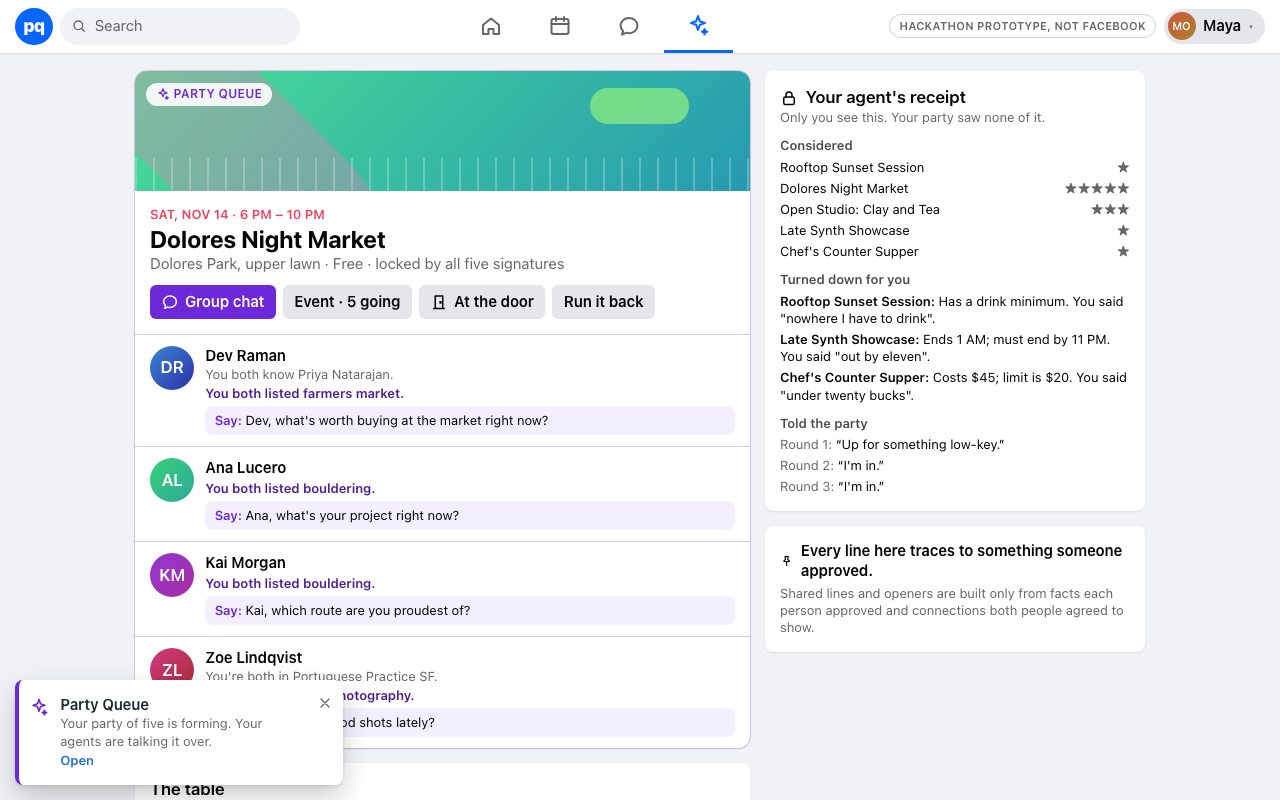
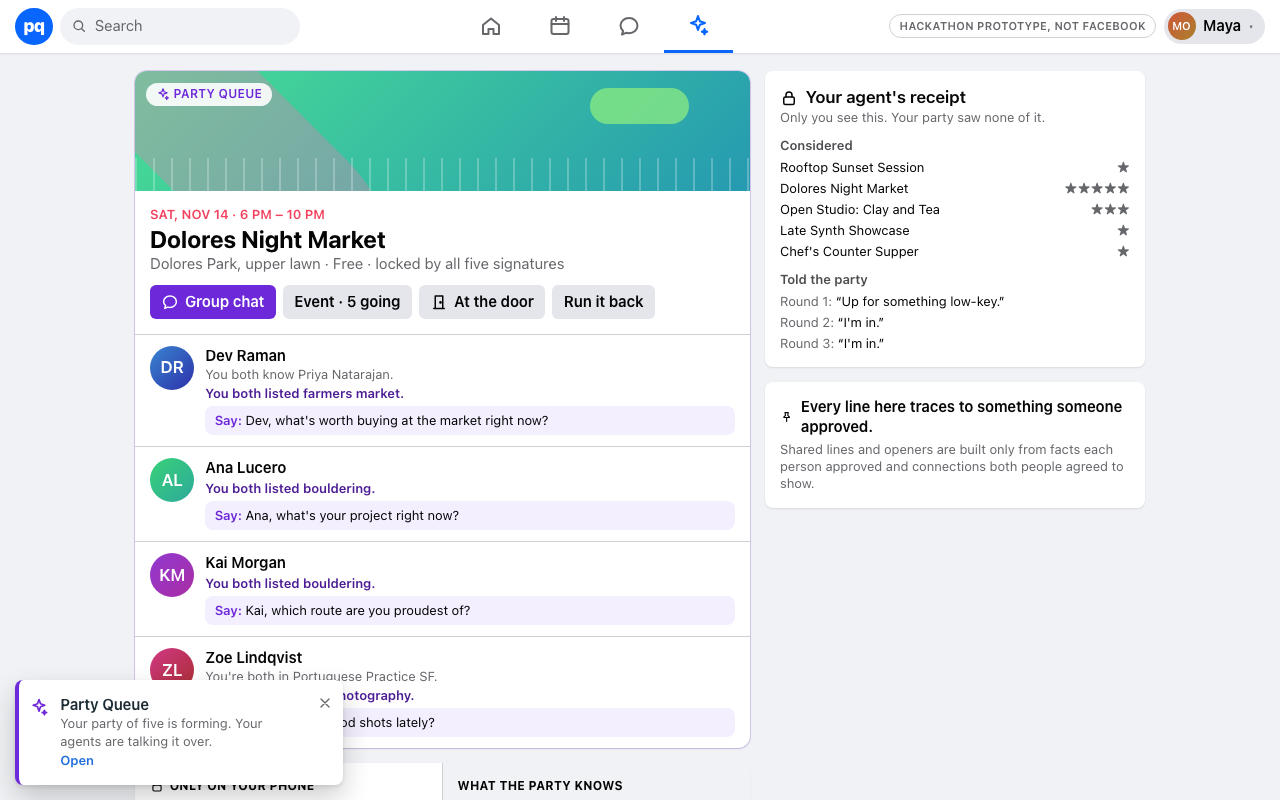
F2: Maya's secret
On your own /party: your rules in your own words and what your agent turned
down, beside a 'What the party knows' column computed by scanning everything
the other four can load (party view, live events, group chat). It reads
'Nothing' with the number of items checked, plus the anonymous unavailable
marks they saw; a planted leak turns it red. Behind SECRET_PANEL (default on).

diff --git a/components/party/SecretPanel.tsx b/components/party/SecretPanel.tsx
@@ -1,0 +1,85 @@
+import { IconCheck, IconLock } from "@/components/icons";
+import type { SecretView } from "@/lib/server/secret";
+
+/** Your private rules and receipt, next to what the party actually knows.
+ *  The right column is computed by a leak scan, so "nothing" is a result. */
+export function SecretPanel({ v }: { v: SecretView }) {
+  const leaked = v.partyKnows.length > 0;
+  return (
+    <section className="overflow-hidden rounded-[12px] bg-white shadow-[var(--shadow-card)]" data-testid="secret-panel">
+      <div className="grid grid-cols-2 divide-x divide-[var(--color-divider)]">
+        {/* Left: only on this phone */}
+        <div className="min-w-0 p-3 sm:p-4" data-testid="secret-mine">
+          <div className="flex items-center gap-1.5 text-[12px] font-bold uppercase tracking-wide text-[var(--color-ink)]">
+            <IconLock size={14} /> Only on your phone
+          </div>
+          <div className="mt-2 text-[12px] font-semibold text-[var(--color-ink-3)]">Your rules</div>
+          {v.rules.length === 0 ? (
+            <div className="text-[13px] text-[var(--color-ink-2)]">You didn't set any.</div>
+          ) : (
+            <ul className="mt-1 space-y-1.5">
+              {v.rules.map((r) => (
+                <li key={r.id} data-testid="secret-rule">
+                  <span className="inline-block rounded-full bg-[var(--color-ink)] px-2 py-0.5 text-[12px] font-semibold text-white">{r.label}</span>
+                  <div className="mt-0.5 text-[12px] italic text-[var(--color-ink-2)]">“{r.yourWords}”</div>
+                </li>
+              ))}
+            </ul>
+          )}
+          {v.turnedDown.length > 0 && (
+            <>
+              <div className="mt-3 text-[12px] font-semibold text-[var(--color-ink-3)]">Your agent turned down</div>
+              <ul className="mt-1 space-y-1">
+                {v.turnedDown.map((t) => (
+                  <li key={t.planId} className="text-[12px] leading-snug">
+                    <span className="font-semibold">{t.title}</span>
+                    <span className="text-[var(--color-ink-2)]"> · {t.reason}</span>
+                  </li>
+                ))}
+              </ul>
+            </>
+          )}
+        </div>
+
+        {/* Right: what the other four can see, from a scan */}
+        <div className={`min-w-0 p-3 sm:p-4 ${leaked ? "bg-[#fdecef]" : "bg-[var(--color-wash)]"}`} data-testid="secret-party-knows" data-leaks={v.partyKnows.length}>
+          <div className="text-[12px] font-bold uppercase tracking-wide text-[var(--color-ink)]">What the party knows</div>
+          {leaked ? (
+            <ul className="mt-2 space-y-1">
+              {v.partyKnows.map((k, i) => (
+                <li key={i} className="text-[12px] font-semibold text-[var(--color-badge)]">
+                  {k.memberName} can see “{k.text}”
+                </li>
+              ))}
+            </ul>
+          ) : (
+            <div className="mt-2" data-testid="secret-empty">
+              <div className="flex min-h-[56px] items-center justify-center rounded-[8px] border-2 border-dashed border-[var(--color-divider)] text-[13px] font-semibold text-[var(--color-ink-2)]">
+                Nothing
+              </div>
+              <div className="mt-2 flex items-start gap-1 text-[11px] leading-snug text-[var(--color-ink-2)]">
+                <IconCheck size={14} className="mt-px shrink-0 text-[var(--color-positive)]" />
+                <span>
+                  Checked just now: {v.checkedItems} items across all {v.checkedMembers} other phones. None mention your rules or reasons.
+                </span>
+              </div>
+            </div>
+          )}
+          {v.partySaw.length > 0 && (
+            <>
+              <div className="mt-3 text-[12px] font-semibold text-[var(--color-ink-3)]">They saw only</div>
+              <ul className="mt-1 space-y-0.5">
+                {v.partySaw.map((t) => (
+                  <li key={t} className="text-[12px] text-[var(--color-ink-2)]">
+                    {t}
+                  </li>
+                ))}
+              </ul>
+              <div className="mt-1 text-[11px] text-[var(--color-ink-2)]">No name, no reason.</div>
+            </>
+          )}
+        </div>
+      </div>
+    </section>
+  );
+}

diff --git a/lib/server/secret.ts b/lib/server/secret.ts
@@ -1,0 +1,98 @@
+import type { HardRule } from "@/contracts";
+import { visibleTo } from "./bus";
+import { chatView } from "./social";
+import { profile, store } from "./store";
+import { memberPartyView } from "./views";
+
+/**
+ * "Maya's secret": what only the owner can see, next to what the rest of
+ * the party actually knows about it. The second column is not a claim; it
+ * is computed by scanning everything each other member can load (their
+ * party view, every live event they receive, the group chat) for the
+ * owner's rule words, sentence and private reasons.
+ */
+
+export interface SecretRule {
+  id: string;
+  label: string;
+  yourWords: string;
+}
+
+export interface SecretView {
+  ownerId: string;
+  rules: SecretRule[];
+  turnedDown: { planId: string; title: string; reason: string }[];
+  /** Anything private of the owner's found in another member's data. Expected empty. */
+  partyKnows: { memberId: string; memberName: string; text: string }[];
+  /** What the others saw instead: plan marks with no reason and no name. */
+  partySaw: string[];
+  checkedMembers: number;
+  checkedItems: number;
+}
+
+export function ruleLabel(r: HardRule): string {
+  switch (r.kind) {
+    case "end_by": {
+      const [h, m] = r.value.split(":").map(Number) as [number, number];
+      const hh = h % 12 === 0 ? 12 : h % 12;
+      return `Done by ${hh}${m ? `:${String(m).padStart(2, "0")}` : ""} ${h >= 12 && h < 24 ? "PM" : "AM"}`;
+    }
+    case "max_price":
+      return `$${r.value} or less`;
+    case "no_drink_minimum":
+      return "No drink minimum";
+    case "public_venue":
+      return "Public place only";
+  }
+}
+
+/** Everything one member could ever load or receive about this party. */
+export function everythingVisibleTo(partyId: string, viewerId: string): { text: string; items: number } {
+  const s = store();
+  const view = memberPartyView(partyId, viewerId);
+  const events = s.events_log.filter((e) => visibleTo(e, { userId: viewerId }));
+  const chatId = s.parties.get(partyId)?.chatId;
+  const chat = chatId ? chatView(chatId, viewerId) : null;
+  return { text: JSON.stringify({ view, events, chat }), items: events.length + (chat?.messages.length ?? 0) + (view?.table.length ?? 0) };
+}
+
+export function secretView(partyId: string, ownerId: string): SecretView | null {
+  const s = store();
+  const party = s.parties.get(partyId);
+  const brief = s.briefs.get(`brief-${ownerId}`);
+  if (!party || !brief || !party.memberIds.includes(ownerId)) return null;
+
+  const mine = s.verdicts.filter((v) => v.partyId === partyId && v.ownerId === ownerId);
+  const secrets = [brief.sentence, ...brief.hardRules.map((r) => r.sourceText), ...mine.filter((v) => v.decision === "reject").map((v) => v.privateReason)].filter(
+    (x) => x && x.trim().length >= 6,
+  );
+
+  const partyKnows: SecretView["partyKnows"] = [];
+  let checkedItems = 0;
+  const others = party.memberIds.filter((id) => id !== ownerId);
+  for (const other of others) {
+    // A generic reason can be word-for-word the other person's own; that is not a leak.
+    const theirOwn = new Set([
+      ...(s.briefs.get(`brief-${other}`)?.hardRules.map((r) => r.sourceText) ?? []),
+      ...s.verdicts.filter((v) => v.partyId === partyId && v.ownerId === other).map((v) => v.privateReason),
+    ]);
+    const seen = everythingVisibleTo(partyId, other);
+    checkedItems += seen.items;
+    for (const secret of secrets) {
+      if (theirOwn.has(secret)) continue;
+      if (seen.text.includes(JSON.stringify(secret).slice(1, -1))) partyKnows.push({ memberId: other, memberName: profile(other).firstName, text: secret });
+    }
+  }
+
+  return {
+    ownerId,
+    rules: brief.hardRules.map((r) => ({ id: r.id, label: ruleLabel(r), yourWords: r.sourceText })),
+    turnedDown: mine
+      .filter((v) => v.round === 1 && v.decision === "reject")
+      .map((v) => ({ planId: v.planId, title: s.plans.get(v.planId)?.title ?? v.planId, reason: v.privateReason })),
+    partyKnows,
+    partySaw: s.table.filter((t) => t.partyId === partyId && t.kind === "unavailable").map((t) => t.text),
+    checkedMembers: others.length,
+    checkedItems,
+  };
+}

diff --git a/tests/unit/secret.test.ts b/tests/unit/secret.test.ts
@@ -1,0 +1,60 @@
+import { beforeEach, describe, expect, it } from "vitest";
+import { DEMO_PARTY as D } from "@/fixtures";
+import { runParty } from "@/lib/agents/orchestrator";
+import { flag } from "@/lib/flags";
+import { joinQueue } from "@/lib/server/queue";
+import { secretView } from "@/lib/server/secret";
+import { postMessage } from "@/lib/server/social";
+import { resetStore, store } from "@/lib/server/store";
+
+async function locked() {
+  resetStore();
+  for (const id of ["dev", "ana", "kai", "zoe", "maya"]) {
+    await joinQueue({ userId: id, eventId: D.entryEventId, sentence: D.sentences[id]!, consentBridges: true, startTalk: false });
+  }
+  const pid = [...store().parties.keys()][0]!;
+  await runParty(pid, { paceMs: 0 });
+  return pid;
+}
+
+describe("Maya's secret (F2)", () => {
+  beforeEach(() => {
+    process.env.PQ_PACE_MS = "0";
+  });
+
+  it("is on by default", () => expect(flag("SECRET_PANEL")).toBe(true));
+
+  it("her phone shows her three rules in her own words and what her agent turned down", async () => {
+    const v = secretView(await locked(), "maya")!;
+    expect(v.rules.map((r) => r.label)).toEqual(["Done by 11 PM", "$20 or less", "No drink minimum"]);
+    expect(v.rules.map((r) => r.yourWords)).toEqual(["out by eleven", "under twenty bucks", "nowhere I have to drink"]);
+    expect(v.turnedDown.map((t) => t.title).sort()).toEqual(["Chef's Counter Supper", "Late Synth Showcase", "Rooftop Sunset Session"]);
+  });
+
+  it("what the party knows stays empty, from a scan of all four other phones", async () => {
+    const v = secretView(await locked(), "maya")!;
+    expect(v.partyKnows).toEqual([]);
+    expect(v.checkedMembers).toBe(4);
+    expect(v.checkedItems).toBeGreaterThan(40);
+    // They saw only the marks, with no name and no reason.
+    expect(v.partySaw).toEqual(expect.arrayContaining(["Rooftop Sunset Session · unavailable"]));
+    for (const t of v.partySaw) expect(t).toMatch(/^[^·]+ · unavailable$/);
+  });
+
+  it("the column is a real check: a planted leak shows up for every member who can see it", async () => {
+    const pid = await locked();
+    const chatId = store().parties.get(pid)!.chatId!;
+    postMessage(chatId, "dev", "heard someone said nowhere I have to drink lol");
+    const v = secretView(pid, "maya")!;
+    expect(v.partyKnows.map((k) => k.memberId).sort()).toEqual(["ana", "dev", "kai", "zoe"]);
+    expect(v.partyKnows.every((k) => k.text === "nowhere I have to drink")).toBe(true);
+  });
+
+  it("each person sees only their own secret", async () => {
+    const pid = await locked();
+    const dev = secretView(pid, "dev")!;
+    expect(dev.rules.map((r) => r.label)).toEqual(["$40 or less"]);
+    expect(JSON.stringify(dev)).not.toContain("nowhere I have to drink");
+    expect(secretView(pid, "priya")).toBeNull();
+  });
+});

diff --git a/app/party/page.tsx b/app/party/page.tsx
@@ -4,6 +4,9 @@ import { Avatar } from "@/components/Avatar";
 import { Cover } from "@/components/events/Cover";
 import { IconChat, IconDoor, IconLock, IconPin, IconSparkle } from "@/components/icons";
 import { PartyLive } from "@/components/party/PartyLive";
+import { SecretPanel } from "@/components/party/SecretPanel";
+import { flag } from "@/lib/flags";
+import { secretView } from "@/lib/server/secret";
 import { clock12, dayLabel, price } from "@/lib/format";
 import { store } from "@/lib/server/store";
 import { currentViewerId } from "@/lib/server/viewer";
@@ -43,6 +46,7 @@ export default async function PartyPage() {
   const myOwnVerdicts = s.verdicts.filter((x) => x.partyId === v.party.id && x.ownerId === viewer && x.round === 1);
   const others = v.members.filter((m) => m.id !== viewer);
   const cardFor = (id: string) => v.cards.find((c) => c.subjectId === id);
+  const secret = flag("SECRET_PANEL") ? secretView(v.party.id, viewer) : null;
 
   return (
     <main className="mx-auto grid max-w-[1040px] grid-cols-1 gap-4 px-4 py-5 lg:grid-cols-[1fr_380px]">
@@ -115,6 +119,8 @@ export default async function PartyPage() {
           </ul>
         </section>
 
+        {secret && <SecretPanel v={secret} />}
+
         {/* The public table */}
         <section className="rounded-[8px] bg-white p-4 shadow-[var(--shadow-card)]" data-testid="party-table">
           <h2 className="text-[17px] font-semibold">The table</h2>
@@ -169,9 +175,9 @@ export default async function PartyPage() {
                   </li>
                 ))}
               </ul>
-              <div className="text-[13px] font-semibold text-[var(--color-ink-3)]">Turned down for you</div>
+              {!secret && <div className="text-[13px] font-semibold text-[var(--color-ink-3)]">Turned down for you</div>}
               <ul className="mb-3 mt-1 space-y-1 text-[13px]">
-                {(v.receipt?.rejected ?? myOwnVerdicts.filter((x) => x.decision === "reject").map((x) => ({ planId: x.planId, title: s.plans.get(x.planId)?.title ?? "", reason: x.privateReason, byCode: x.overriddenByCode }))).map((r) => (
+                {(secret ? [] : v.receipt?.rejected ?? myOwnVerdicts.filter((x) => x.decision === "reject").map((x) => ({ planId: x.planId, title: s.plans.get(x.planId)?.title ?? "", reason: x.privateReason, byCode: x.overriddenByCode }))).map((r) => (
                   <li key={r.planId}>
                     <span className="font-semibold">{r.title}:</span> {r.reason}
                     {r.byCode && <span className="ml-1 rounded bg-[var(--color-btn-2)] px-1 text-[11px]">code</span>}

diff --git a/tests/secret.spec.ts b/tests/secret.spec.ts
@@ -1,0 +1,36 @@
+import { expect, test } from "@playwright/test";
+import { lockedParty } from "./helpers";
+
+/* F2: Maya's secret on her phone; the party-knows column stays empty. */
+
+test("Maya's secret: her rules on her phone, the party knows nothing", async ({ browser, baseURL, request }) => {
+  test.setTimeout(150_000);
+  await lockedParty(request);
+
+  const phone = { viewport: { width: 390, height: 844 }, deviceScaleFactor: 2, isMobile: true, hasTouch: true };
+  const maya = await browser.newContext(phone);
+  await maya.addCookies([{ name: "pq_viewer", value: "maya", url: baseURL! }]);
+  const page = await maya.newPage();
+  await page.goto("/party");
+  const panel = page.getByTestId("secret-panel");
+  await expect(panel).toBeVisible();
+  await expect(page.getByTestId("secret-rule")).toHaveCount(3);
+  await expect(page.getByTestId("secret-mine")).toContainText("No drink minimum");
+  await expect(page.getByTestId("secret-mine")).toContainText("nowhere I have to drink");
+  await expect(page.getByTestId("secret-party-knows")).toHaveAttribute("data-leaks", "0");
+  await expect(page.getByTestId("secret-empty")).toContainText("Nothing");
+  await expect(page.getByTestId("secret-party-knows")).toContainText("Rooftop Sunset Session · unavailable");
+  await panel.scrollIntoViewIfNeeded();
+  await panel.screenshot({ path: "shots/f2-secret.png", animations: "disabled" });
+
+  // Dev's phone: his own rule only; nothing of Maya's anywhere on the page.
+  const dev = await browser.newContext(phone);
+  await dev.addCookies([{ name: "pq_viewer", value: "dev", url: baseURL! }]);
+  const dp = await dev.newPage();
+  await dp.goto("/party");
+  await expect(dp.getByTestId("secret-mine")).toContainText("$40 or less");
+  await expect(dp.getByTestId("secret-rule")).toHaveCount(1);
+  const html = await dp.content();
+  for (const t of ["nowhere I have to drink", "out by eleven", "under twenty bucks", "No drink minimum"]) expect(html).not.toContain(t);
+  await Promise.all([maya.close(), dev.close()]);
+});

diff --git a/lib/flags.ts b/lib/flags.ts
@@ -7,6 +7,8 @@
 const DEFAULTS = {
   /** F1: /stage live replay with a scrubber, rejections in red, signatures landing. */
   STAGE_SCRUBBER: true,
+  /** F2: on your own phone, your private rules and receipt next to a computed "what the party knows" column. */
+  SECRET_PANEL: true,
 } as const;
 
 export type FlagName = keyof typeof DEFAULTS;

diff --git a/FEATURES.md b/FEATURES.md
@@ -25,7 +25,7 @@ hues (spread across the wheel, layout picked from a title hash).
 | # | Feature | Flag | Status | Proof |
 |---|---|---|---|---|
 | 1 | Stage view: live replay with a scrubber, private and shared columns, code rejections in red, signatures landing | `STAGE_SCRUBBER` | done (F1) | see Done |
-| 2 | Maya's secret: her private rule on her phone only, her receipt, and a "what the party knows" column that stays empty | | todo | |
+| 2 | Maya's secret: her private rule on her phone only, her receipt, and a "what the party knows" column that stays empty | `SECRET_PANEL` | done (F2) | see Done |
 | 3 | Real phones: join by QR on the local network, MATCH FOUND on all five within a second, with sound and vibration | | todo | |
 | 4 | Real-model readiness: streamed verdicts, per-agent latency, a timeout with a fallback labelled on screen, a cached replay labelled as recorded | | todo | |
 | 5 | Demo control panel at /demo: reset, pre-queue four members, trigger the lock, switch frame source | | todo | |
@@ -48,3 +48,4 @@ hues (spread across the wheel, layout picked from a title hash).
 | F | Feature | Flag | Proof |
 |---|---|---|---|
 | F1 | Stage view with a scrubber: play/pause at the recorded pace (1×/2×/4×), drag to any point and the board (plans, signatures, lock) rebuilds from the trace; Live button follows new traces; rejections and verifier blocks in red, holds amber, signatures land with a check; member toasts never show on the projector | `STAGE_SCRUBBER` | `npm test -- stage`: `Tests 7 passed` (board at end: 3 out, Night Market locked, 5 signatures; rewind to round 2: Kai holding, nothing locked; 4 rejecting agents tagged red). `npx playwright test tests/stage.spec.ts`: `✓ stage: live replay with a scrubber, rejections in red, signatures landing (15.3s)`. Gate: typecheck exit 0, `Tests 60 passed (60)`, demo path `1 passed (17.0s)` with lag 4 ms. `shots/f1-stage-live.png`, `shots/f1-stage-scrub.png` |
+| F2 | Maya's secret: on her own /party, "Only on your phone" (her rules as labels plus her exact words, and what her agent turned down and why) beside "What the party knows". That column is computed: code scans everything each other member can load (party view, every live event they receive, the group chat) for her sentence, rule words and private reasons. It shows "Nothing" with the item count, plus the anonymous "· unavailable" marks they saw instead; a planted leak turns it red. | `SECRET_PANEL` | `npm test -- secret`: `Tests 5 passed` (3 rules in her words; empty after scanning 4 phones; planted chat leak caught for all 4; Dev sees only his own rule). `npx playwright test tests/secret.spec.ts`: `✓ Maya's secret: her rules on her phone, the party knows nothing (6.1s)`. Gate: typecheck exit 0, `Tests 65 passed (65)`, demo path `1 passed (10.8s)`, lag 8 ms. `shots/f2-secret.png` (390 px) |
